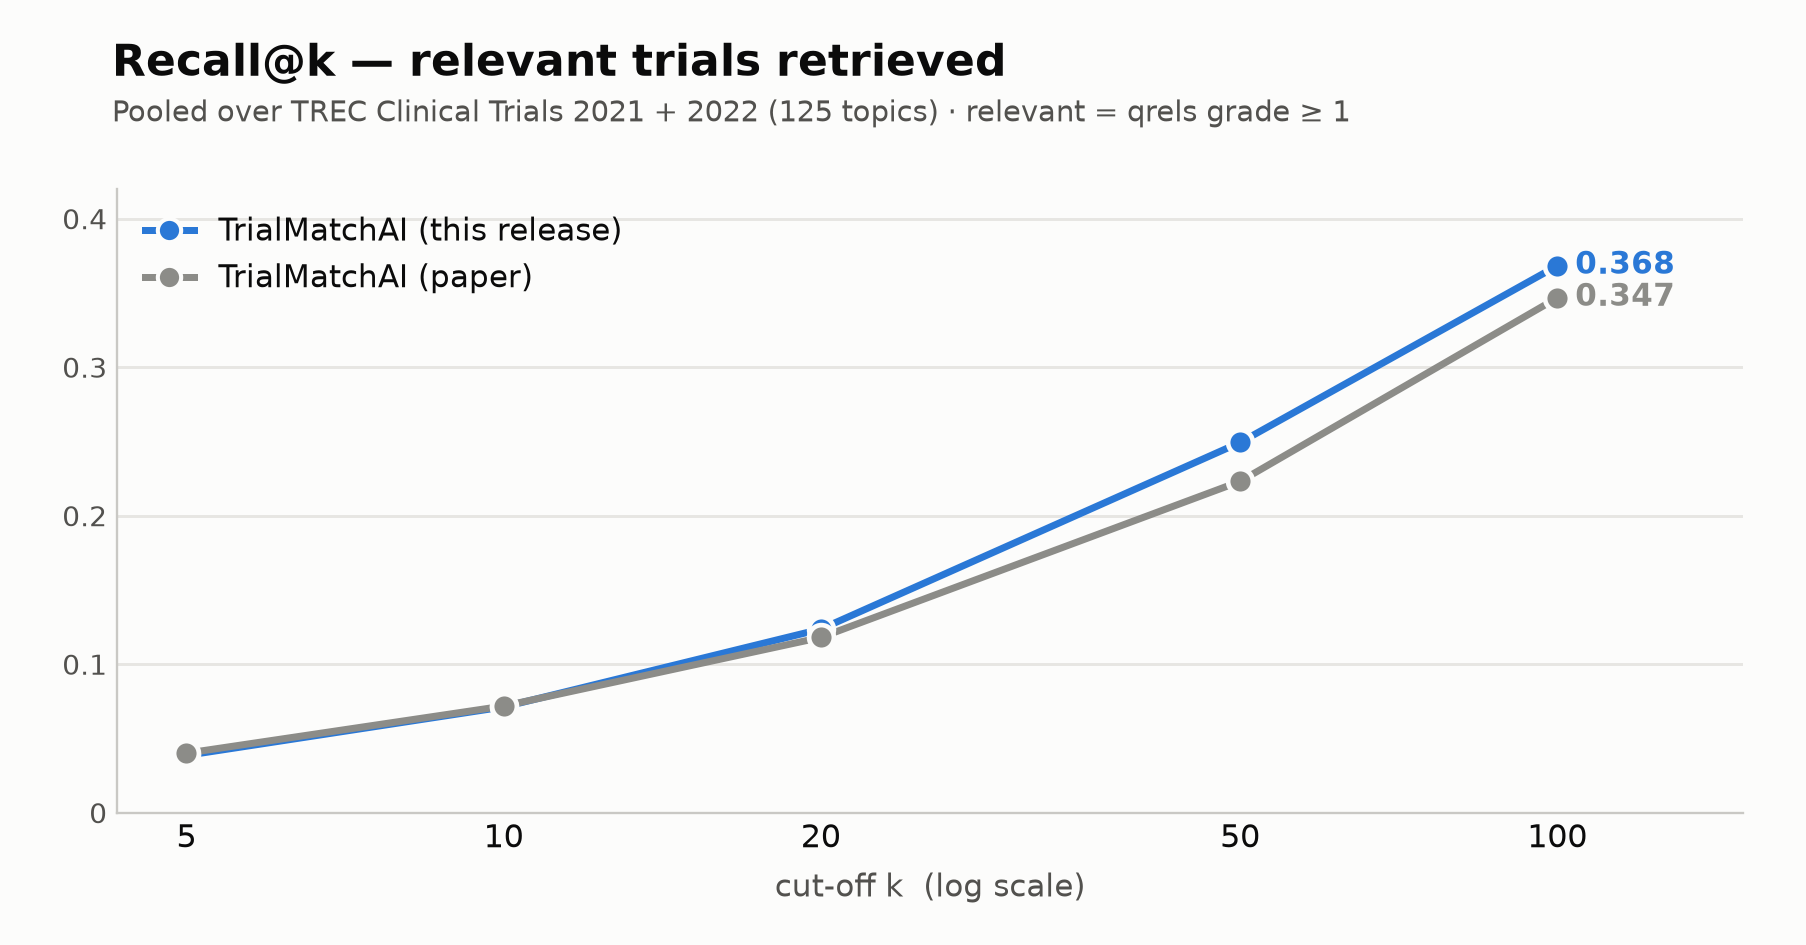
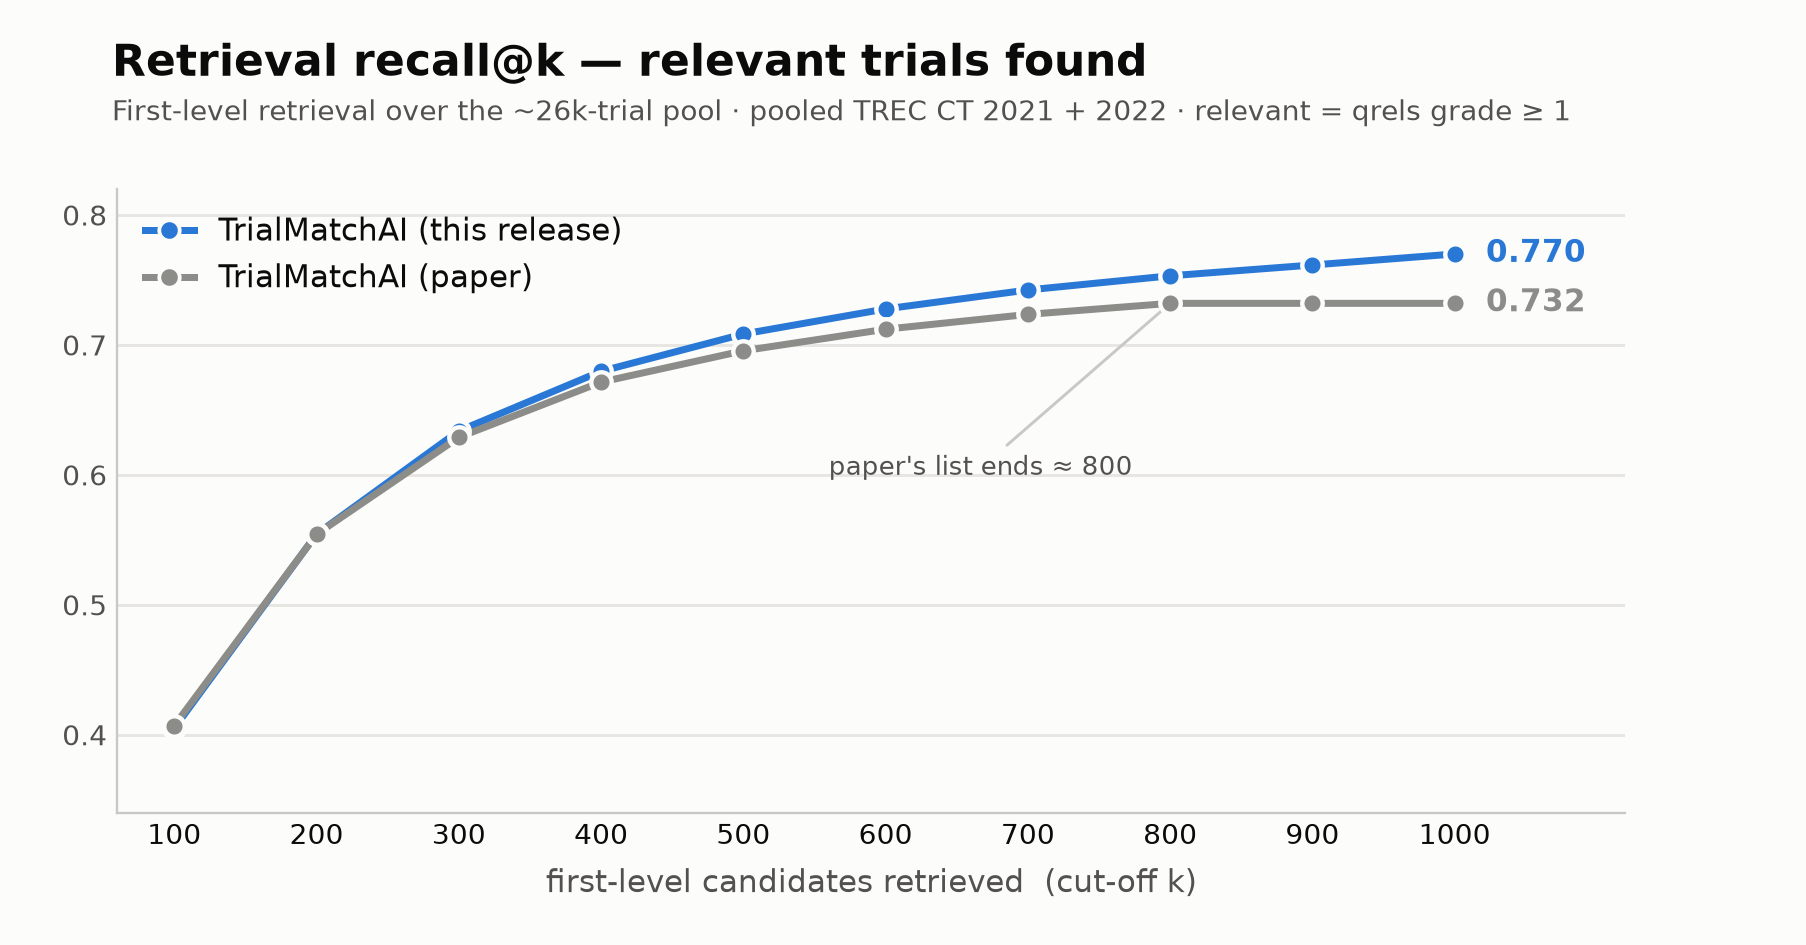
docs(readme): recall showcase = first-level retrieval recall@100-1000
Replace the ranked-output recall curve with first-level retrieval recall@k (k=100..1000,
step 100) over the ~26k-trial pool, pooled TREC CT 2021+2022. This release reaches 0.770 at
k=1000 vs the paper's 0.732; the paper's stored first-level lists end at ~800 (annotated).

diff --git a/README.md b/README.md
@@ -57,17 +57,18 @@ the value reported in Jin et al. (2024), whose evaluation additionally includes 
 2016 cohort, so it is an indicative reference rather than a matched run. Reproduce ours with
 `trialmatchai trec --tracks "21 22"`.</sub>
 
-**Recall** — the share of relevant trials surfaced by rank *k* — is on par at shallow
-cut-offs and pulls ahead at deeper ones, reflecting this release's retrieval/shortlist fusion:
+**Retrieval recall** — the share of relevant trials the first-level search surfaces among its
+top-*k* candidates — tracks the paper early and pulls ahead past ~500, reaching 0.77 at k = 1000:
 
 <picture>
   <source media="(prefers-color-scheme: dark)" srcset="docs/assets/recall_dark.png">
-  <img alt="Recall@k on TREC CT 2021+2022 (pooled): TrialMatchAI this release vs the paper" src="docs/assets/recall_light.png" width="760">
+  <img alt="First-level retrieval recall@k (100–1000) on TREC CT 2021+2022 (pooled): TrialMatchAI this release vs the paper" src="docs/assets/recall_light.png" width="760">
 </picture>
 
-<sub>TREC-standard recall@k (relevant = qrels grade ≥ 1) over each system's ranked output,
-pooled over TREC CT 2021 + 2022. TrialGPT does not report comparable per-cut-off recall, so
-it is omitted here.</sub>
+<sub>TREC-standard recall@k (relevant = qrels grade ≥ 1) over each system's first-level
+retrieval, pooled over TREC CT 2021 + 2022 (~26k-trial candidate pool). The paper's stored
+first-level lists end at ~800 candidates, so its recall plateaus beyond that. TrialGPT does
+not report comparable per-cut-off recall, so it is omitted.</sub>
 
 ## Requirements
 